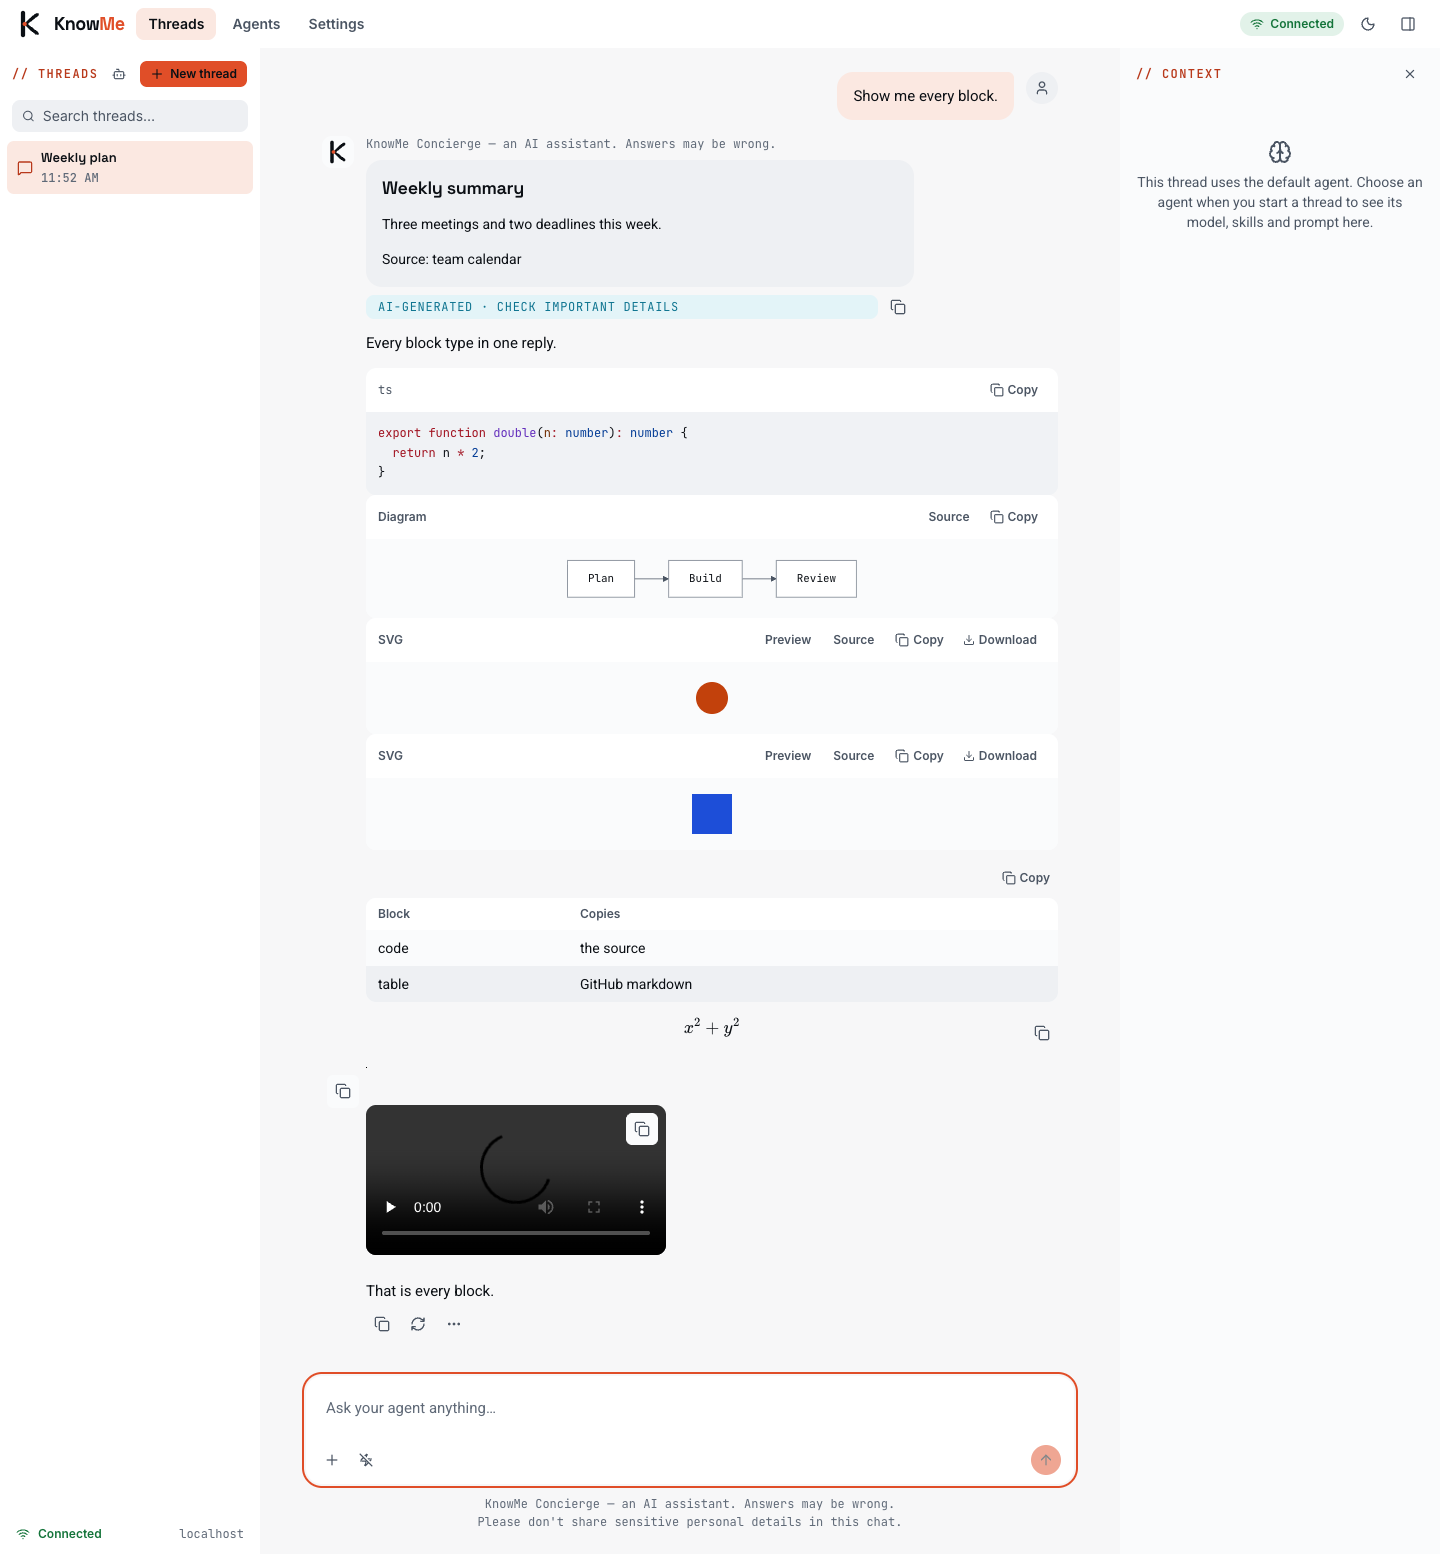
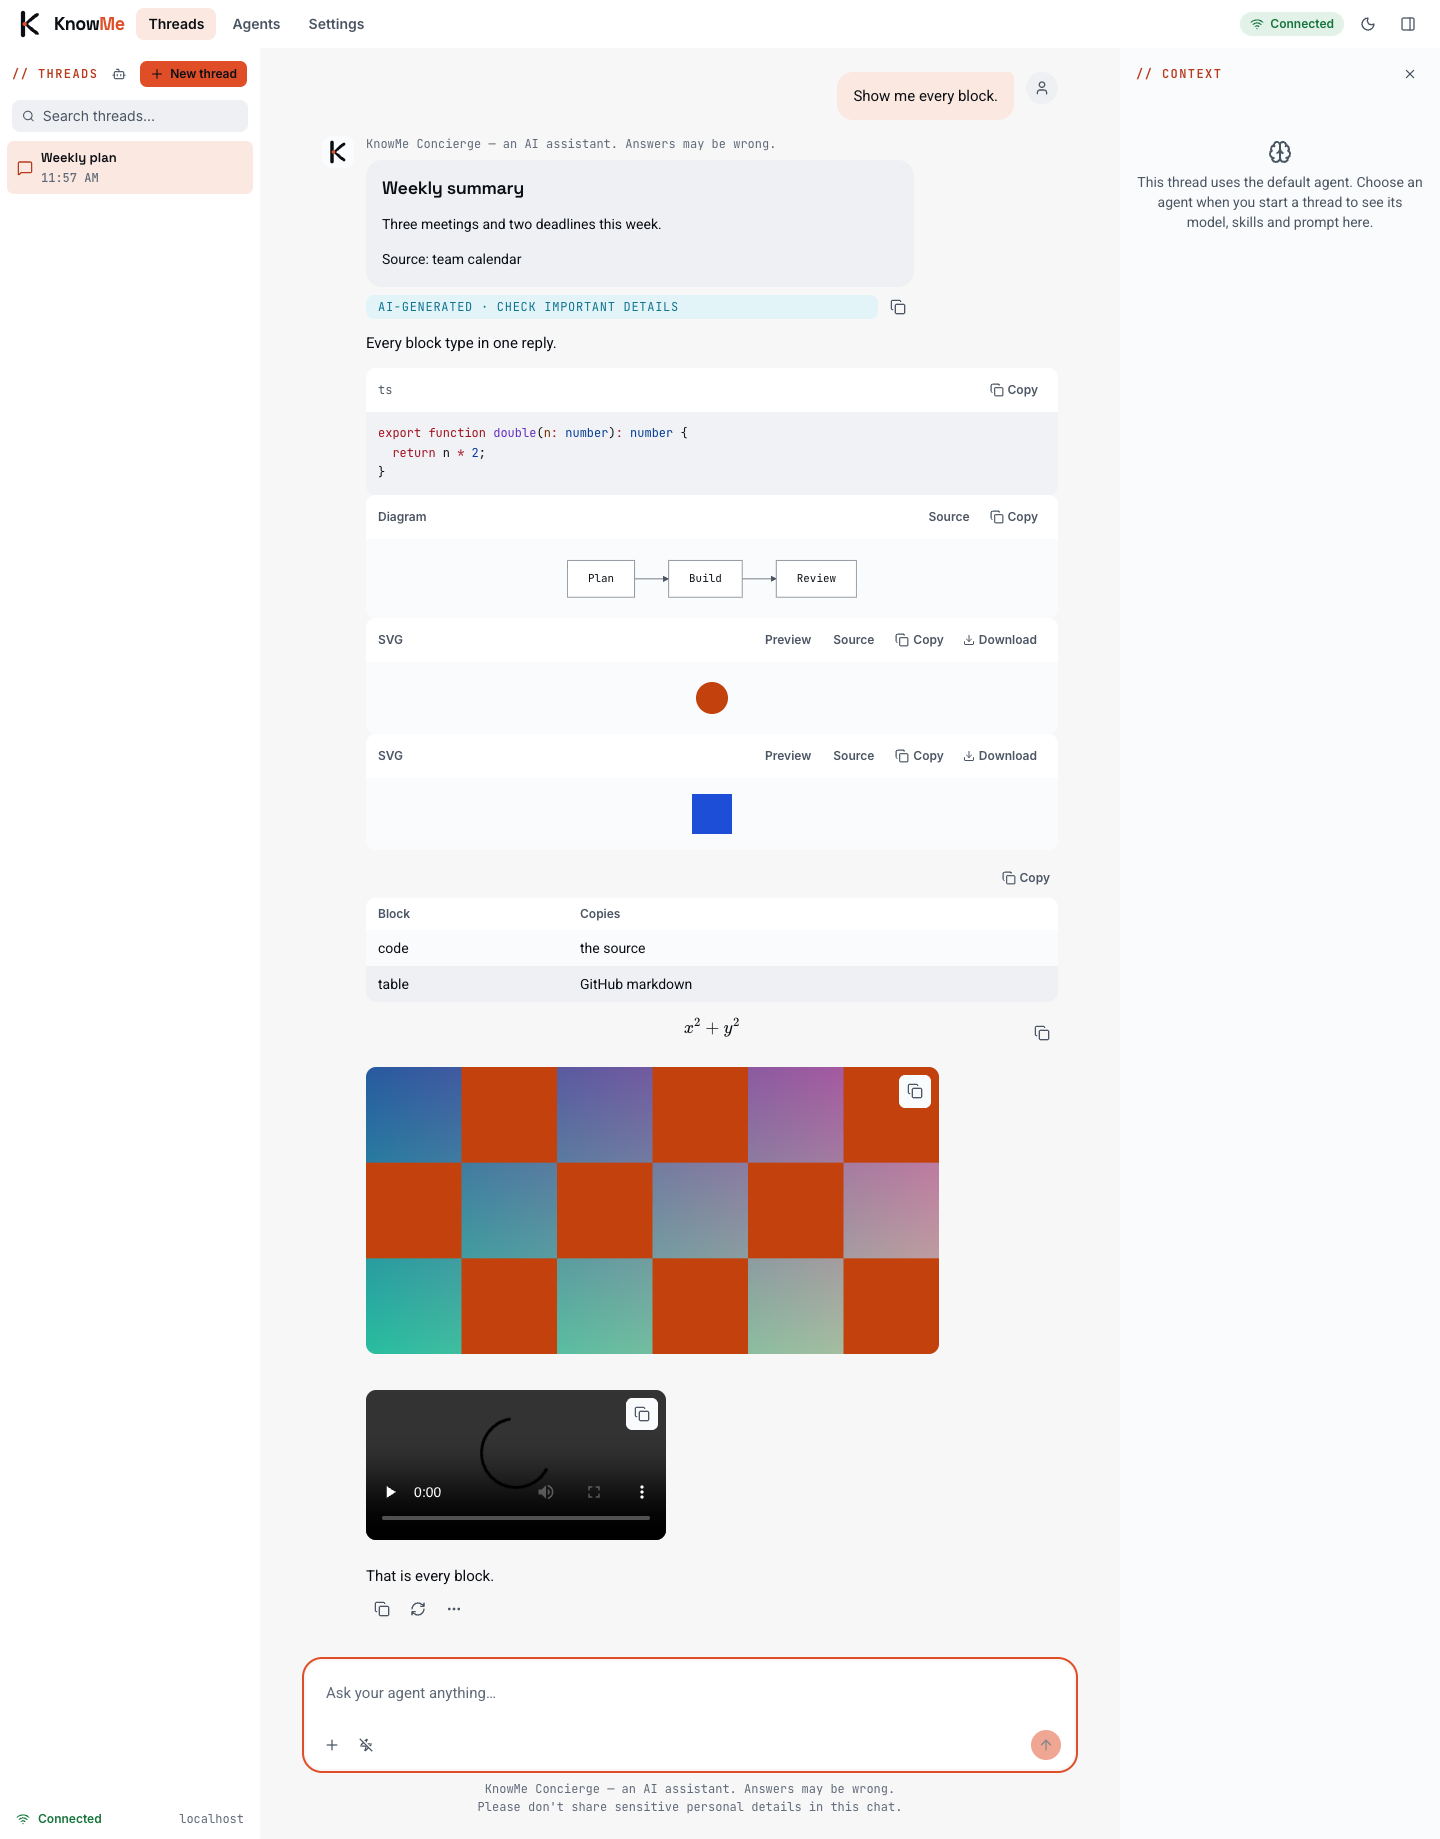
test(e2e): realistic 600x300 image fixture, image button placement test, 768 and 1024 captures

diff --git a/e2e/block-copy.spec.ts b/e2e/block-copy.spec.ts
@@ -25,11 +25,13 @@ import type { Page } from "@playwright/test";
 import { expect, test } from "./support/test";
 import { seedTheme } from "./support/page-helpers";
 import { FIXTURE_THREAD_ID, THEMES, waitForAppReady } from "./support/routes";
-import { FIXTURE_IMAGE_PNG_BASE64, TITLE_RESPONSE, toSseBody, type SseEvent } from "./fixtures/sse";
+import { TITLE_RESPONSE, toSseBody, type SseEvent } from "./fixtures/sse";
 import { AI_SURFACE_CAPTION } from "../content/site/ai-disclosure";
 
 const rid = "req-block-copy-e2e";
 const CAPTURE_DIR = path.resolve("docs/qa/block-copy-captures");
+/** A realistic 600 by 300 px image: a 1 by 1 pixel stub hides placement defects. */
+const OWN_IMAGE_PNG = fs.readFileSync(path.resolve("e2e/fixtures/block-copy-600x300.png"));
 
 const CODE = "export function double(n: number): number {\n  return n * 2;\n}";
 const MERMAID = "graph LR\n  Plan --> Build --> Review";
@@ -116,7 +118,7 @@ async function openThreadWithAllBlocks(page: Page, width: number, theme: (typeof
   await page.setViewportSize({ width, height: 900 });
   // The own-host image cannot load offline, so the stub stands in for the origin.
   await page.route(OWN_IMAGE_URL, (route) =>
-    route.fulfill({ status: 200, contentType: "image/png", body: Buffer.from(FIXTURE_IMAGE_PNG_BASE64, "base64") }),
+    route.fulfill({ status: 200, contentType: "image/png", body: OWN_IMAGE_PNG }),
   );
   await page.route("**/api/chat/completion", async (route) => {
     const body = route.request().postDataJSON() as { stream?: boolean } | null;
@@ -333,6 +335,26 @@ test.describe("block copy: rendering safety and accessibility", () => {
   });
 });
 
+test.describe("block copy: image copy button placement", () => {
+  for (const width of [320, 768, 1024, 1440] as const) {
+    test(`the image Copy button sits on the image's top-right corner at ${width}px`, async ({ page }) => {
+      await openThreadWithAllBlocks(page, width, "light");
+      const image = page.locator('[data-role="assistant"] img[alt="Own-host swatch"]');
+      await image.scrollIntoViewIfNeeded();
+      await expect.poll(() => image.evaluate((img: HTMLImageElement) => img.naturalWidth)).toBe(600);
+      const button = page.getByRole("button", { name: "Copy image", exact: true });
+      const imageBox = (await image.boundingBox())!;
+      const buttonBox = (await button.boundingBox())!;
+      const edge = 16;
+      expect(buttonBox.x, "button left of image right edge").toBeLessThan(imageBox.x + imageBox.width);
+      expect(buttonBox.x + buttonBox.width, "button right edge within the image").toBeLessThanOrEqual(imageBox.x + imageBox.width + 0.5);
+      expect(imageBox.x + imageBox.width - (buttonBox.x + buttonBox.width), "gap to the image's right edge").toBeLessThanOrEqual(edge);
+      expect(buttonBox.y - imageBox.y, "gap to the image's top edge").toBeGreaterThanOrEqual(-0.5);
+      expect(buttonBox.y - imageBox.y, "gap to the image's top edge").toBeLessThanOrEqual(edge);
+    });
+  }
+});
+
 test.describe("block copy: svg block header at phone width", () => {
   for (const theme of THEMES) {
     test(`every control in the SVG header is fully inside the block and 44 px tall at 320px (${theme})`, async ({ page }) => {
@@ -396,7 +418,7 @@ test.describe("block copy: captures", () => {
   test.skip(({ browserName }) => browserName !== "chromium", "Captures are Chromium-only.");
 
   for (const theme of THEMES) {
-    for (const width of [320, 1440] as const) {
+    for (const width of [320, 768, 1024, 1440] as const) {
       test(`captures the thread with every block at ${width}px in the ${theme} theme`, async ({ page }) => {
         await openThreadWithAllBlocks(page, width, theme);
         await expandToScrollableContent(page);
